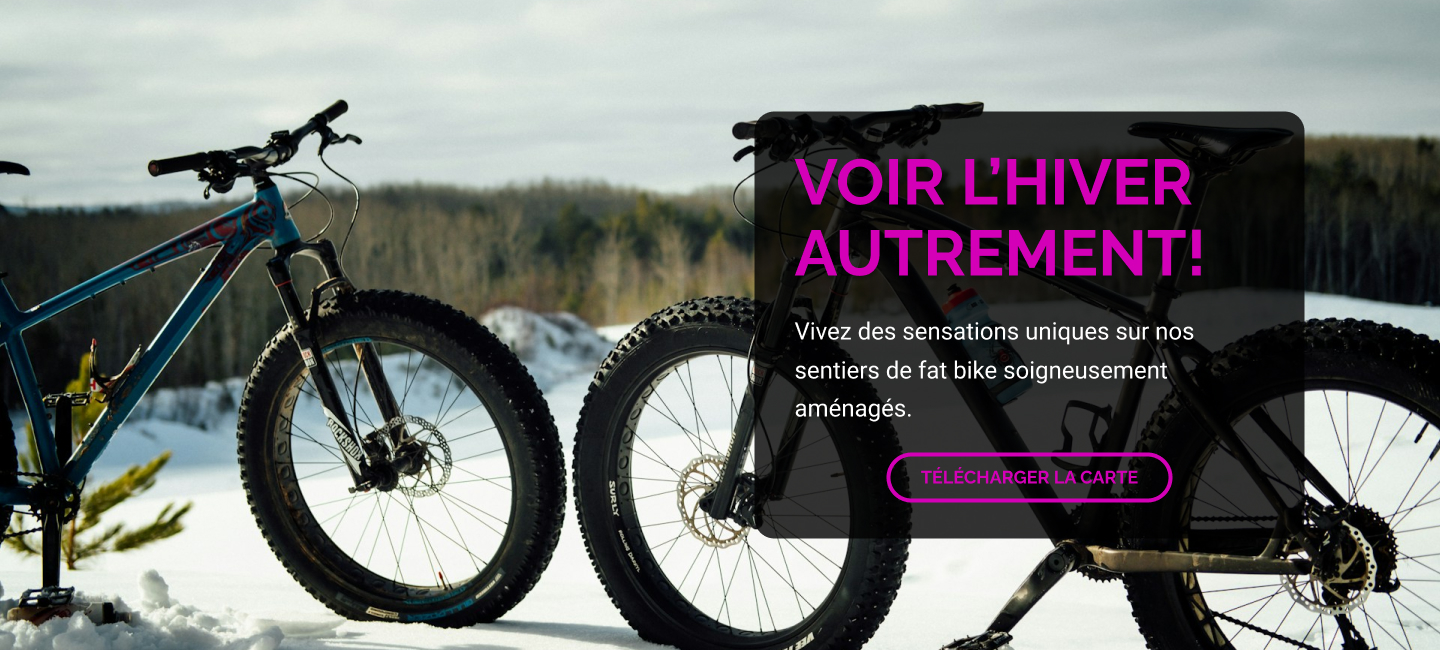
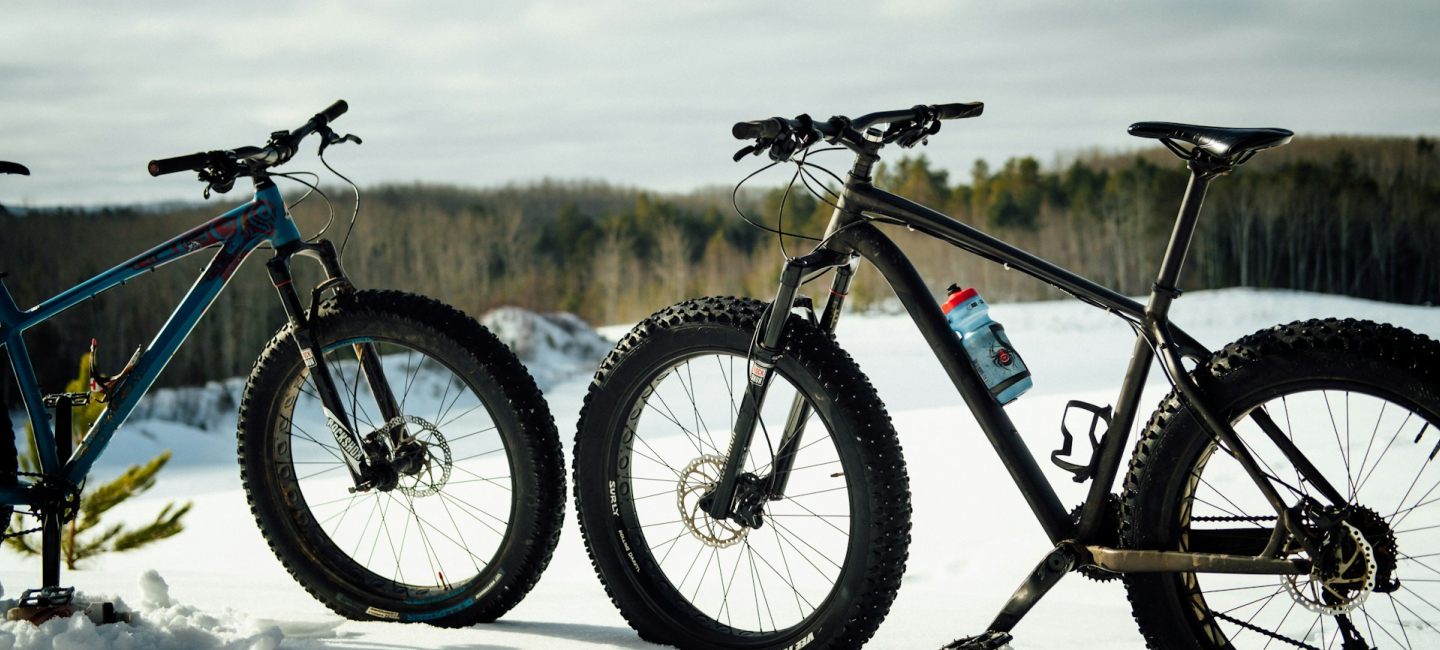
Héro terminé

Changed region(s): [[0.5, 0.1538, 0.9062, 0.8308]]

diff --git a/css/style.css b/css/style.css
@@ -49,7 +49,7 @@ a{
 button{
     background-color: transparent;
     border: 4px solid #D300B7;
-    border-radius: 56px;
+    border-radius: 56vh;
 
     font-size: 1.125rem;
     font-weight: bold;
@@ -66,6 +66,28 @@ button a{
     color: #D300B7;
 }
 
+h1{
+    font-size: 4rem;
+    margin: 0;
+    text-transform: uppercase;
+
+}
+
+.hero p {
+    color: white;
+
+    font: 400 1.5rem/160% "Roboto", sans-serif;
+
+}
+
+.bouton_hero {
+    display: flex;
+    justify-content: center;
+    align-items: center;
+}
+
+
+
 
 /*-------------------------------------------------------------------------------
 COMPONENTS 
@@ -80,6 +102,11 @@ COMPONENTS
 .header{
     background-color: white;
     padding: 20px;
+    position: sticky;
+    z-index: 1000;
+    width: 100%;
+    top: 0;
+
 }
 
 .header .wrapper{
@@ -96,4 +123,34 @@ ul{
     gap: 40px;
 
     list-style: none;
+}
+
+
+.hero{
+
+    background-image: url(../images/hero.jpg);
+    background-size: cover;
+    background-position: bottom;
+
+   
+
+}
+
+.hero .wrapper{
+    display: flex;
+    align-items: center;
+    justify-content: flex-end;
+
+    width: 100%;
+    min-height: 650px;
+
+}
+
+.contenu_hero{
+    background: rgba(0, 0, 0, .8);
+    border-radius: 20px;
+    padding: 40px;
+    max-width: 550px;
+
+    color: #D300B7;
 }

diff --git a/index.html b/index.html
@@ -29,7 +29,7 @@
     <!--EnTête-->
     <header class="header">
       <div class="wrapper">
-       <a class="logo" href="#" >Gros vélo</a>
+        <a class="logo" href="#">Gros vélo</a>
 
         <nav>
           <ul class="menu">
@@ -46,12 +46,17 @@
 
     <section class="hero">
       <div class="wrapper">
-        <h1>Voir l’hiver autrement!</h1>
-        <p>
-          Vivez des sensations uniques sur nos sentiers de fat bike
-          soigneusement aménagés.
-        </p>
-        <button><a href="#">Télécharger la carte</a></button>
+        <div class="contenu_hero">
+          <h1>Voir l’hiver autrement!</h1>
+          <p>
+            Vivez des sensations uniques sur nos sentiers de fat bike
+            soigneusement aménagés.
+          </p>
+          <div class="bouton_hero">
+            <button><a href="#">Télécharger la carte</a></button>
+          </div>
+          
+        </div>
       </div>
     </section>
 
